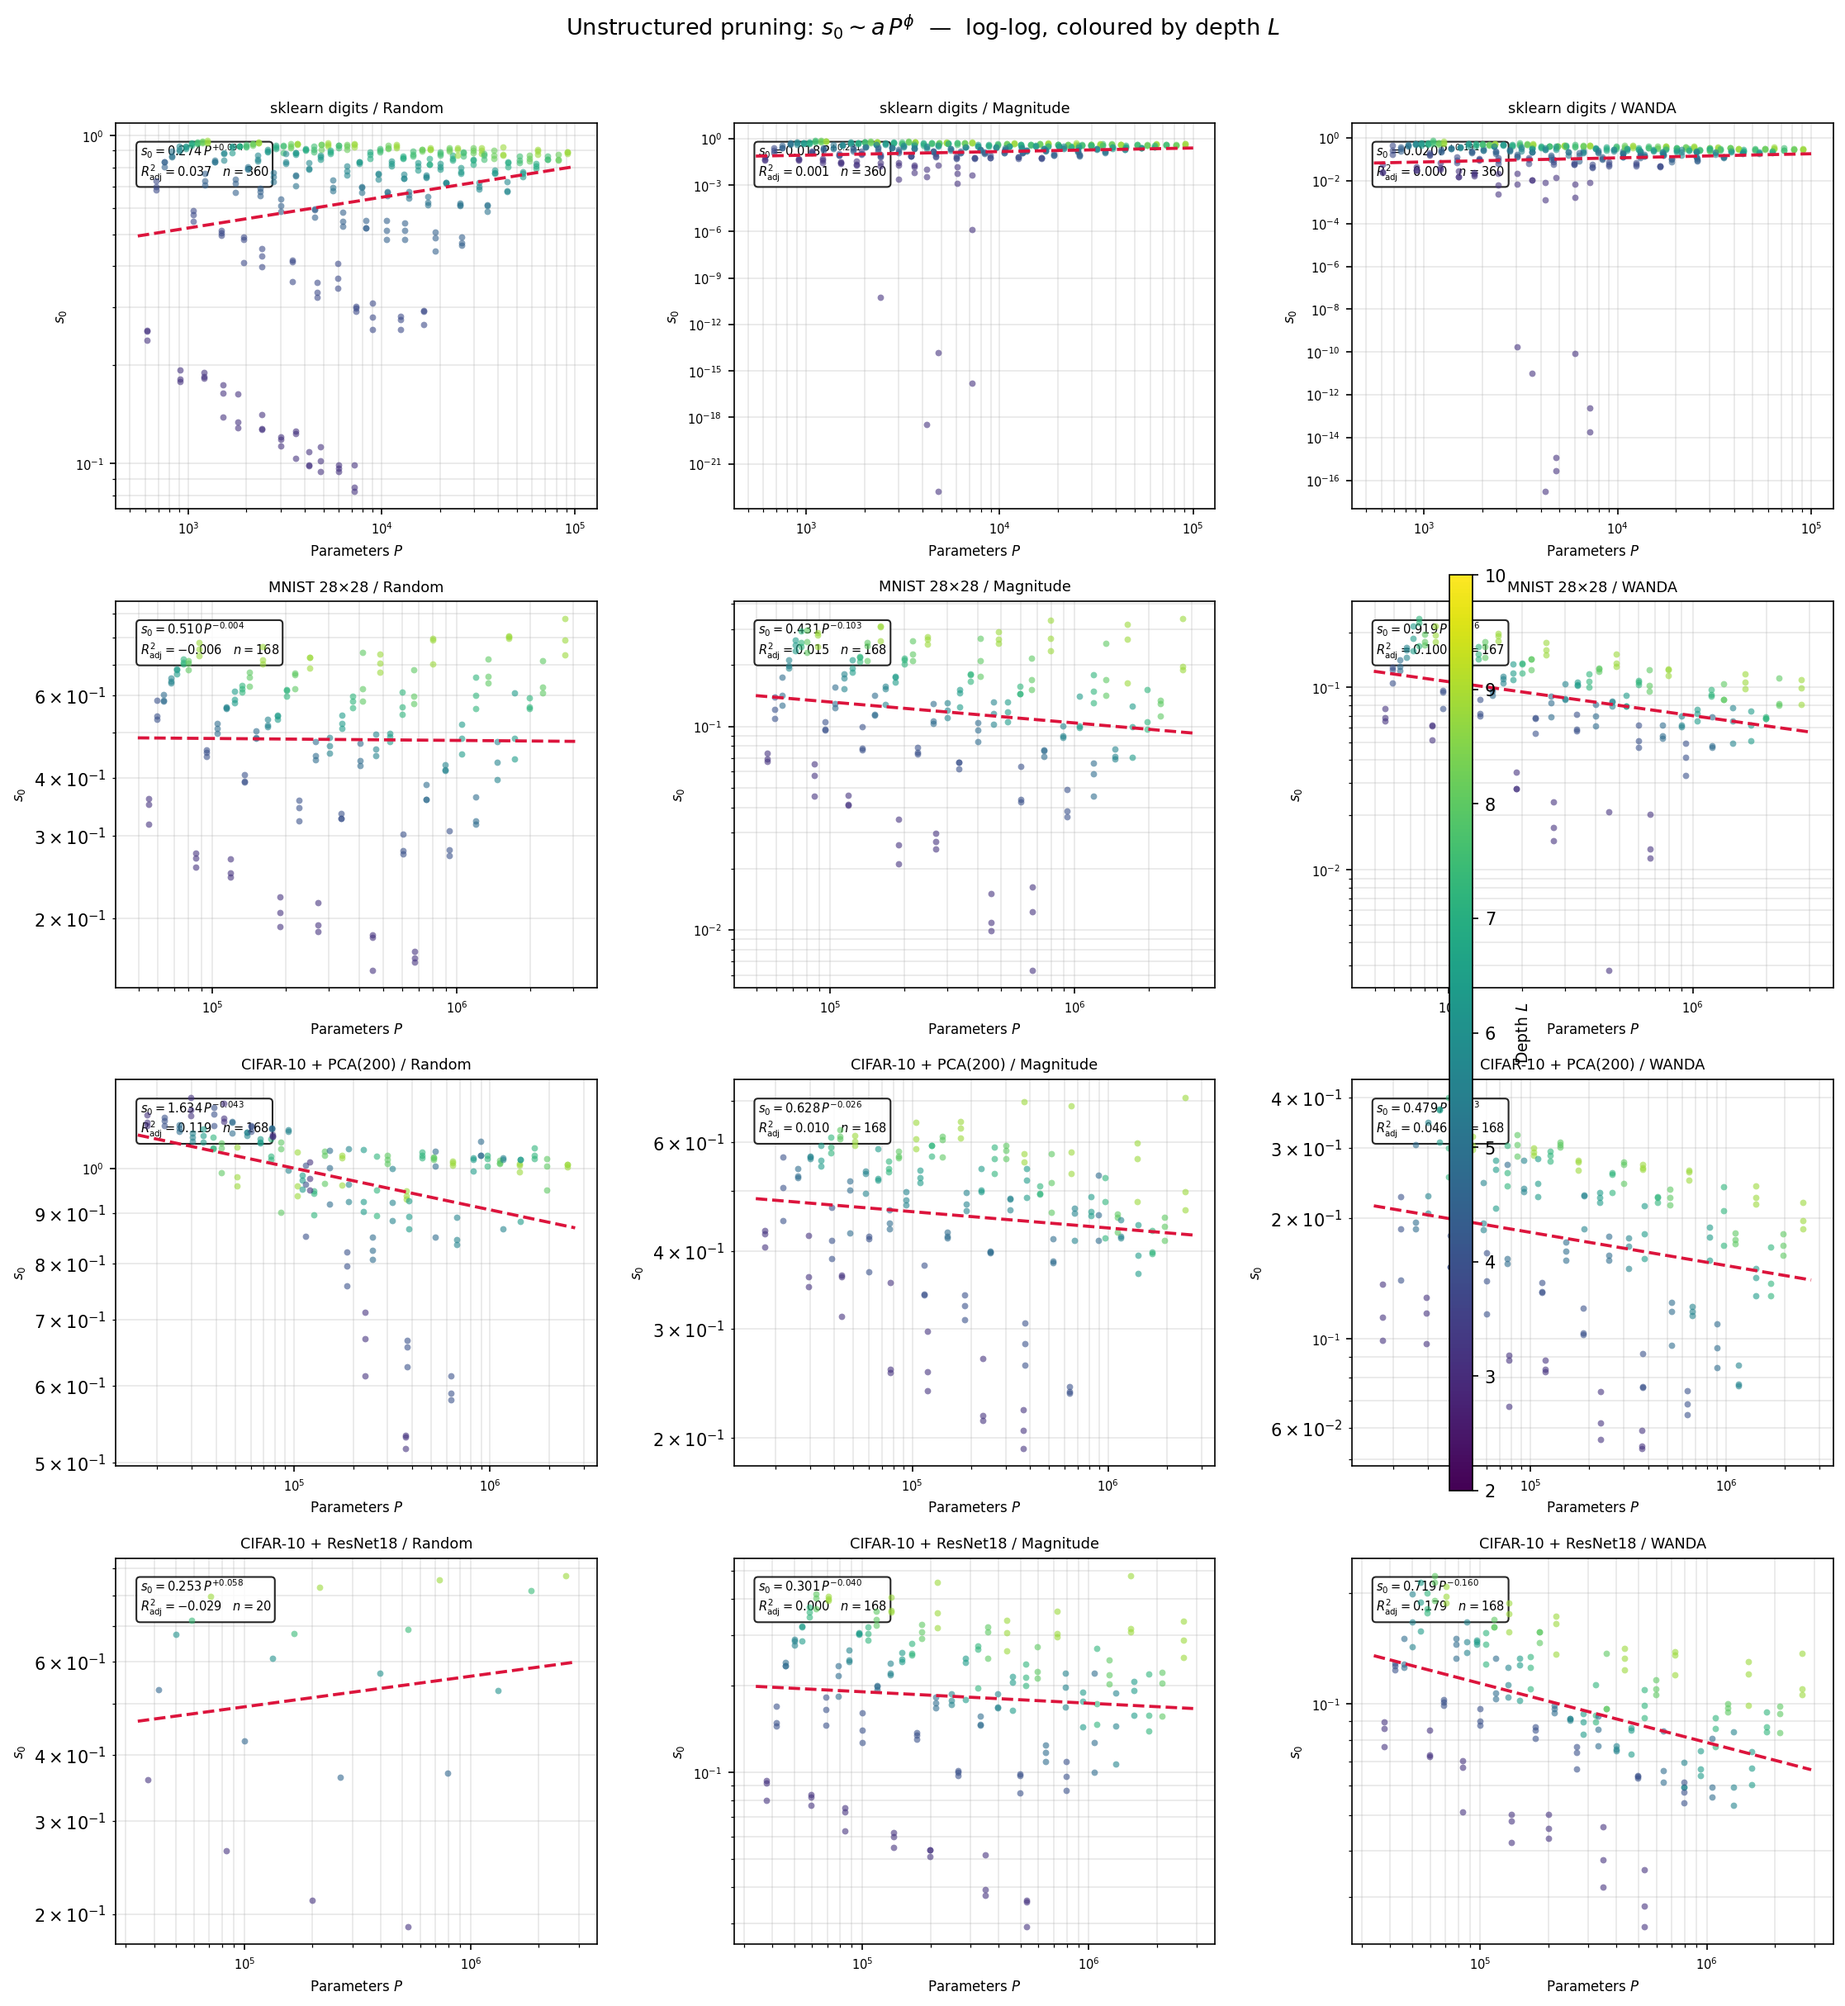
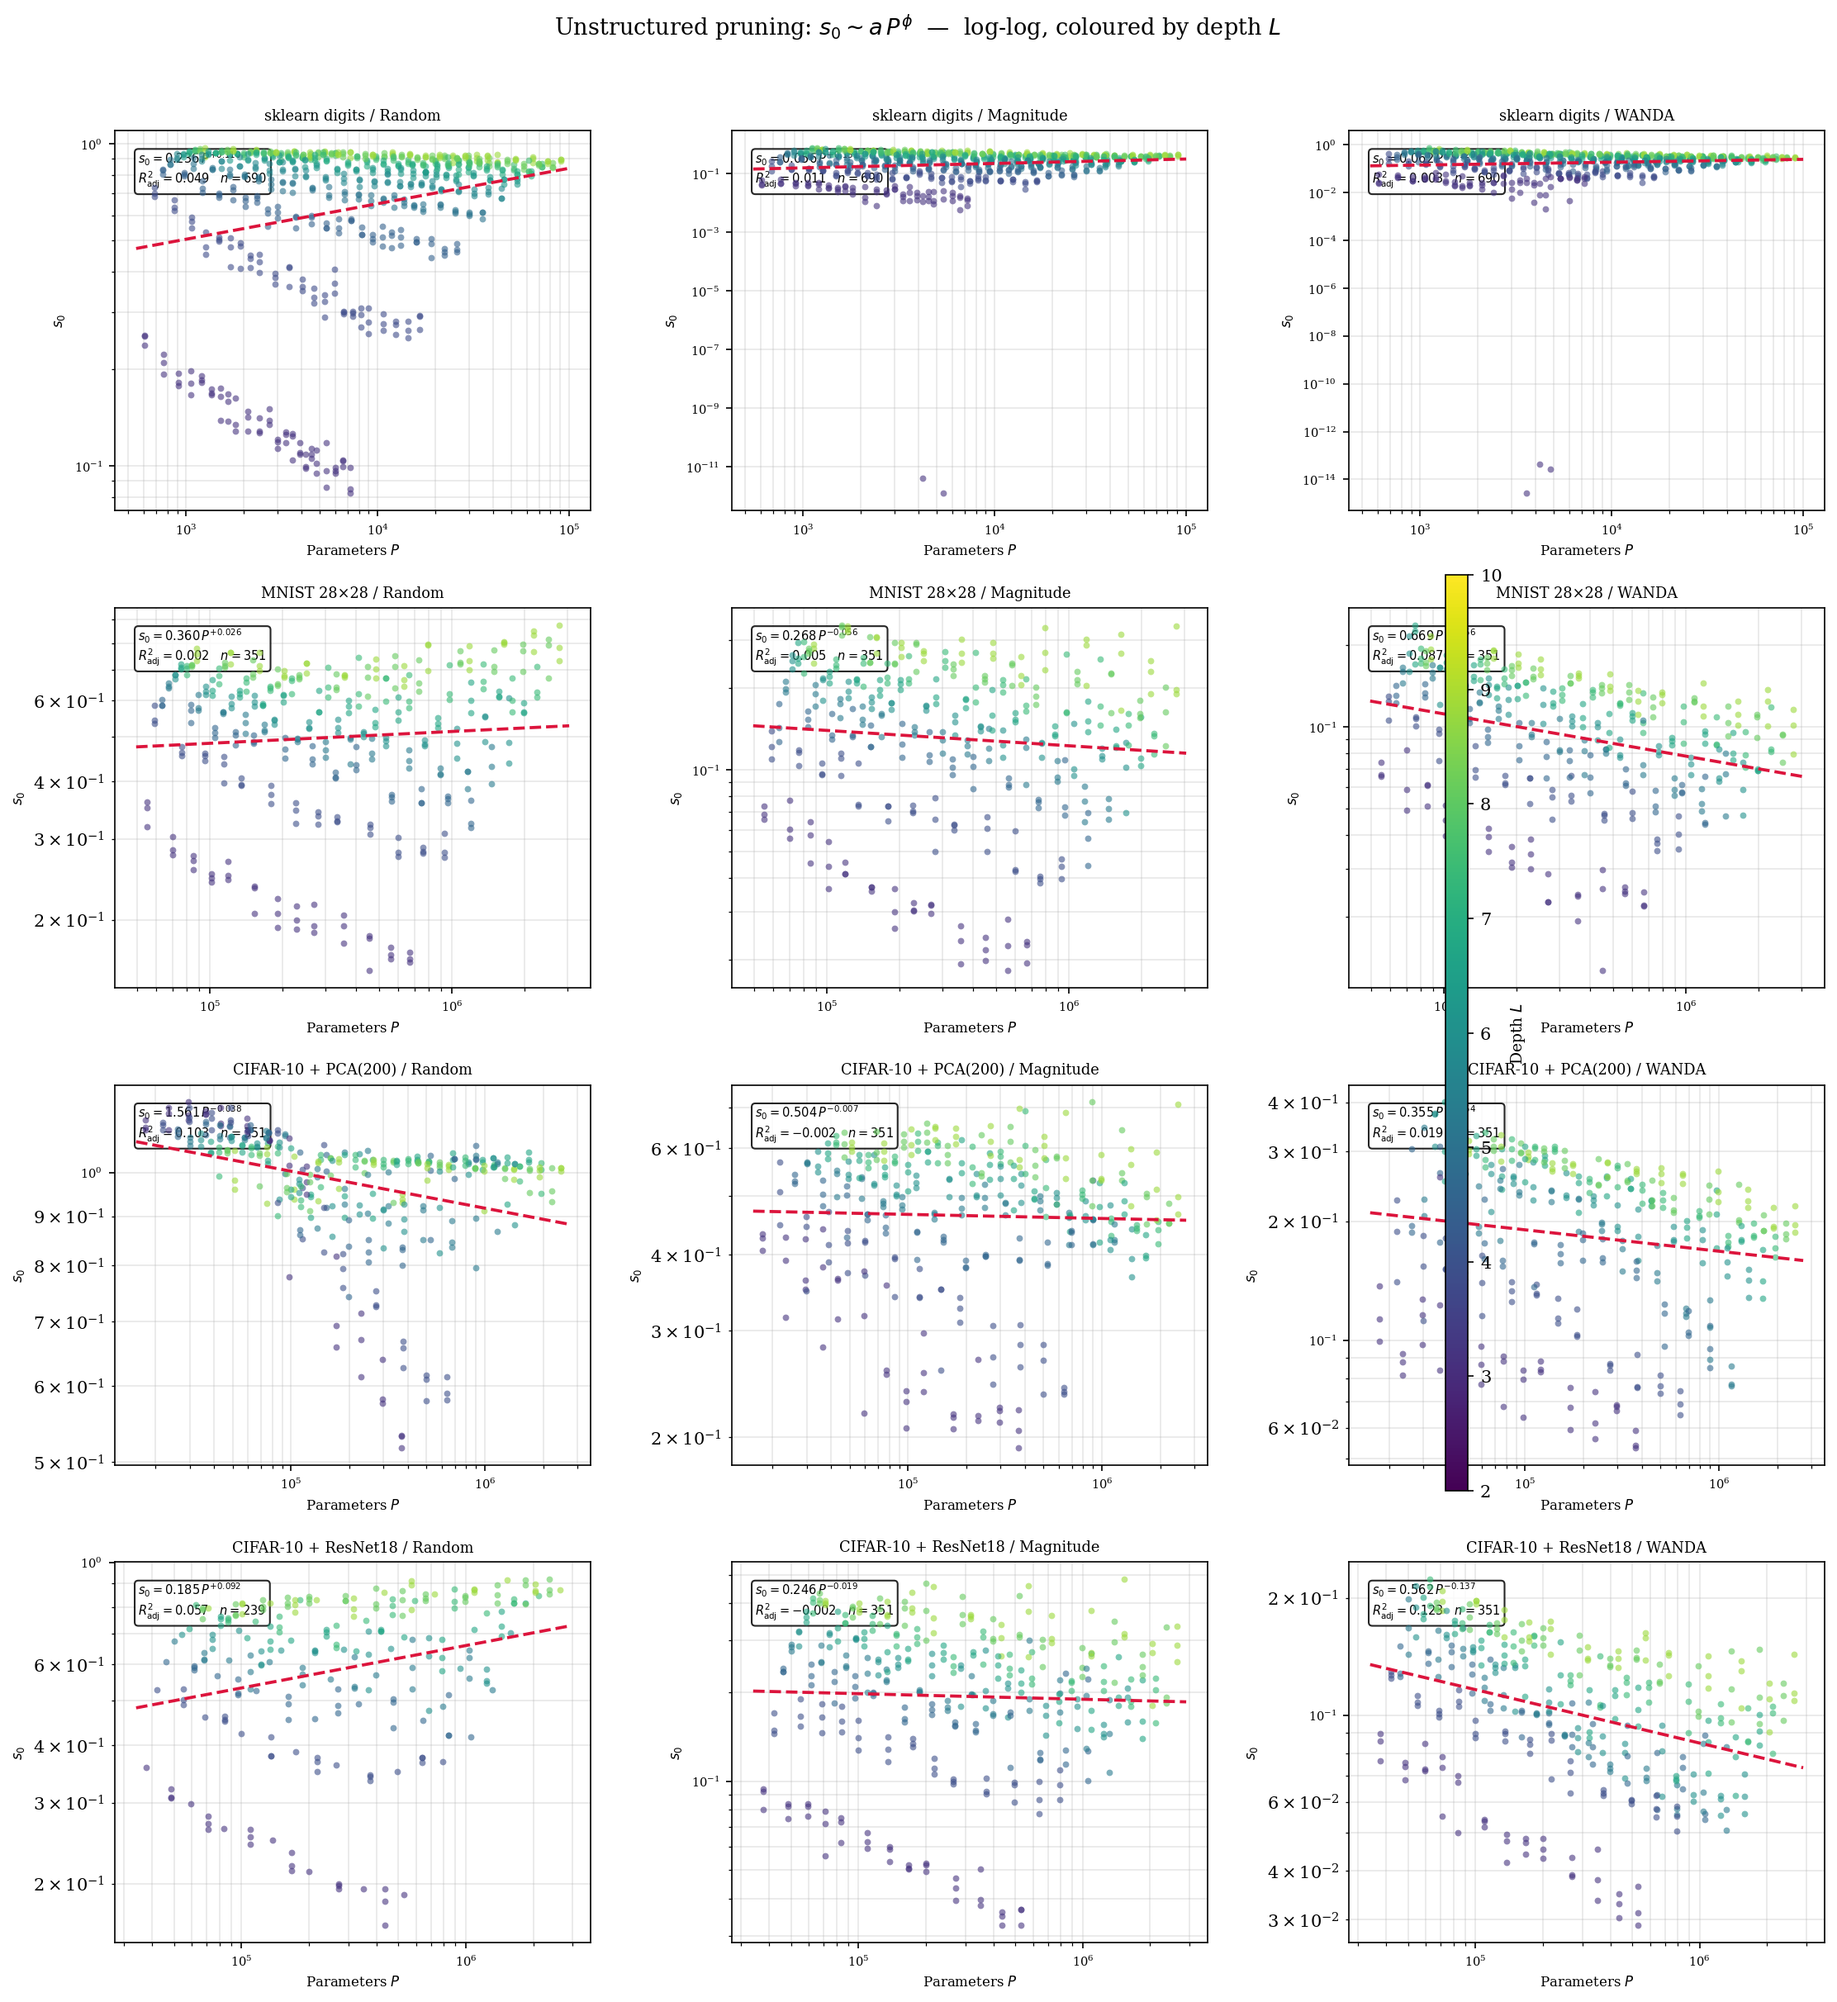
fix: param_scaling NaN guard on log(s_0=0), plot_3d render-order note
param_scaling.fit_power_law previously called np.log on the raw s_0
arrays. A fit that saturates at the lower s_0 bound (s_0 = 0) produces
log(0) = -inf, which then poisons the entire log-log polyfit with NaN.
Filter out non-positive or non-finite s_0 / P entries before taking
logs; return (nan, nan, nan) if fewer than two valid points remain.

plot_3d_scaling.render_3d gets a leading comment explaining why each
error bar is split into a lower-half-before-trisurf and an upper-half-
after segment -- plot_trisurf occludes anything drawn earlier, so this
split is the only way to keep both bars visible without resorting to
zorder hacks that mplot3d ignores.

The aggregate param_scaling.png is refreshed from the refit data.

diff --git a/unstructured_pruning/param_scaling.py b/unstructured_pruning/param_scaling.py
@@ -50,11 +50,20 @@ def _adj_r2(y, y_pred, n_fit_params):
 def fit_param_scaling(P_arr, s0_arr):
     """Fit s_0 = a * P^phi in log-log space.
 
+    Filters out non-positive ``s_0`` or ``P`` entries before taking logs,
+    since a sigmoid fit can return ``s_0 = 0`` at the bound and ``log(0)``
+    would silently propagate NaN through the whole fit.
+
     Returns (phi, a, r2_adj) where phi and a are the power-law exponent and
     prefactor, and r2_adj is the adjusted R² computed in log space.
     """
-    log_P  = np.log(P_arr)
-    log_s0 = np.log(s0_arr)
+    P_arr = np.asarray(P_arr, dtype=float)
+    s0_arr = np.asarray(s0_arr, dtype=float)
+    valid = (P_arr > 0) & (s0_arr > 0) & np.isfinite(P_arr) & np.isfinite(s0_arr)
+    if valid.sum() < 2:
+        return float('nan'), float('nan'), float('nan')
+    log_P  = np.log(P_arr[valid])
+    log_s0 = np.log(s0_arr[valid])
     phi, log_a = np.polyfit(log_P, log_s0, 1)
     a = np.exp(log_a)
     log_s0_pred = phi * log_P + log_a

diff --git a/unstructured_pruning/plot_3d_scaling.py b/unstructured_pruning/plot_3d_scaling.py
@@ -207,6 +207,12 @@ def render_3d(results, scaling, output_path, dataset_method=''):
     cnorm = Normalize(vmin=_log10(z_norm_lo), vmax=_log10(z_norm_hi))
 
     # ---- LEFT: empirical manifold from the data --------------------------
+    # Render order matters in 3D: plot_trisurf occludes anything drawn
+    # before it.  We split each error bar into a lower half (drawn BEFORE
+    # the surface) and an upper half (drawn AFTER) so the manifold sits
+    # between the two halves and the upper bars stay visible above it.
+
+    # ---- LEFT: empirical manifold from the data --------------------------
     tri = mtri.Triangulation(Hl, L)
     ax_data.plot_trisurf(tri, sl, cmap=cmap, norm=cnorm,
                          edgecolor='black', linewidth=0.25,
